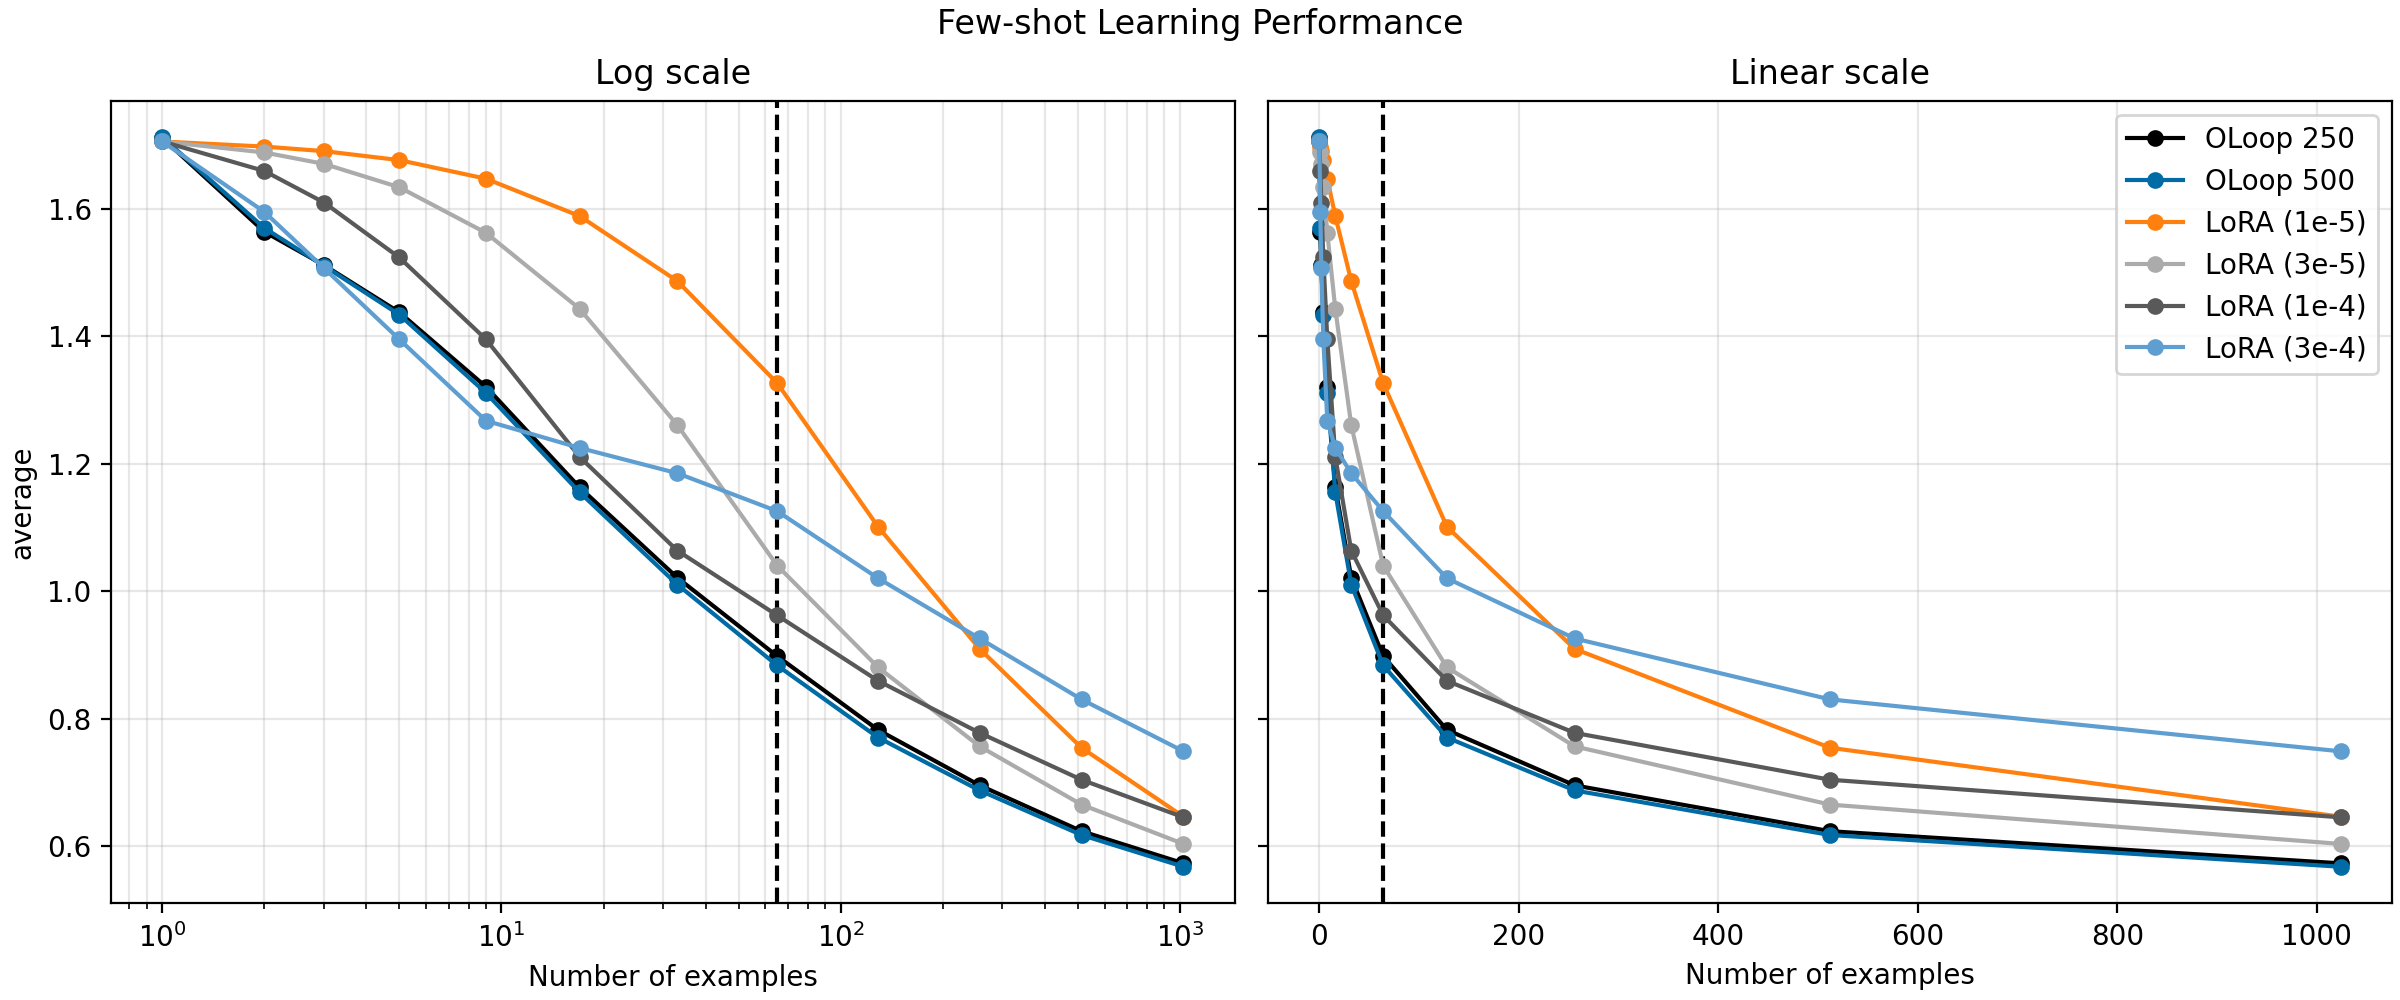
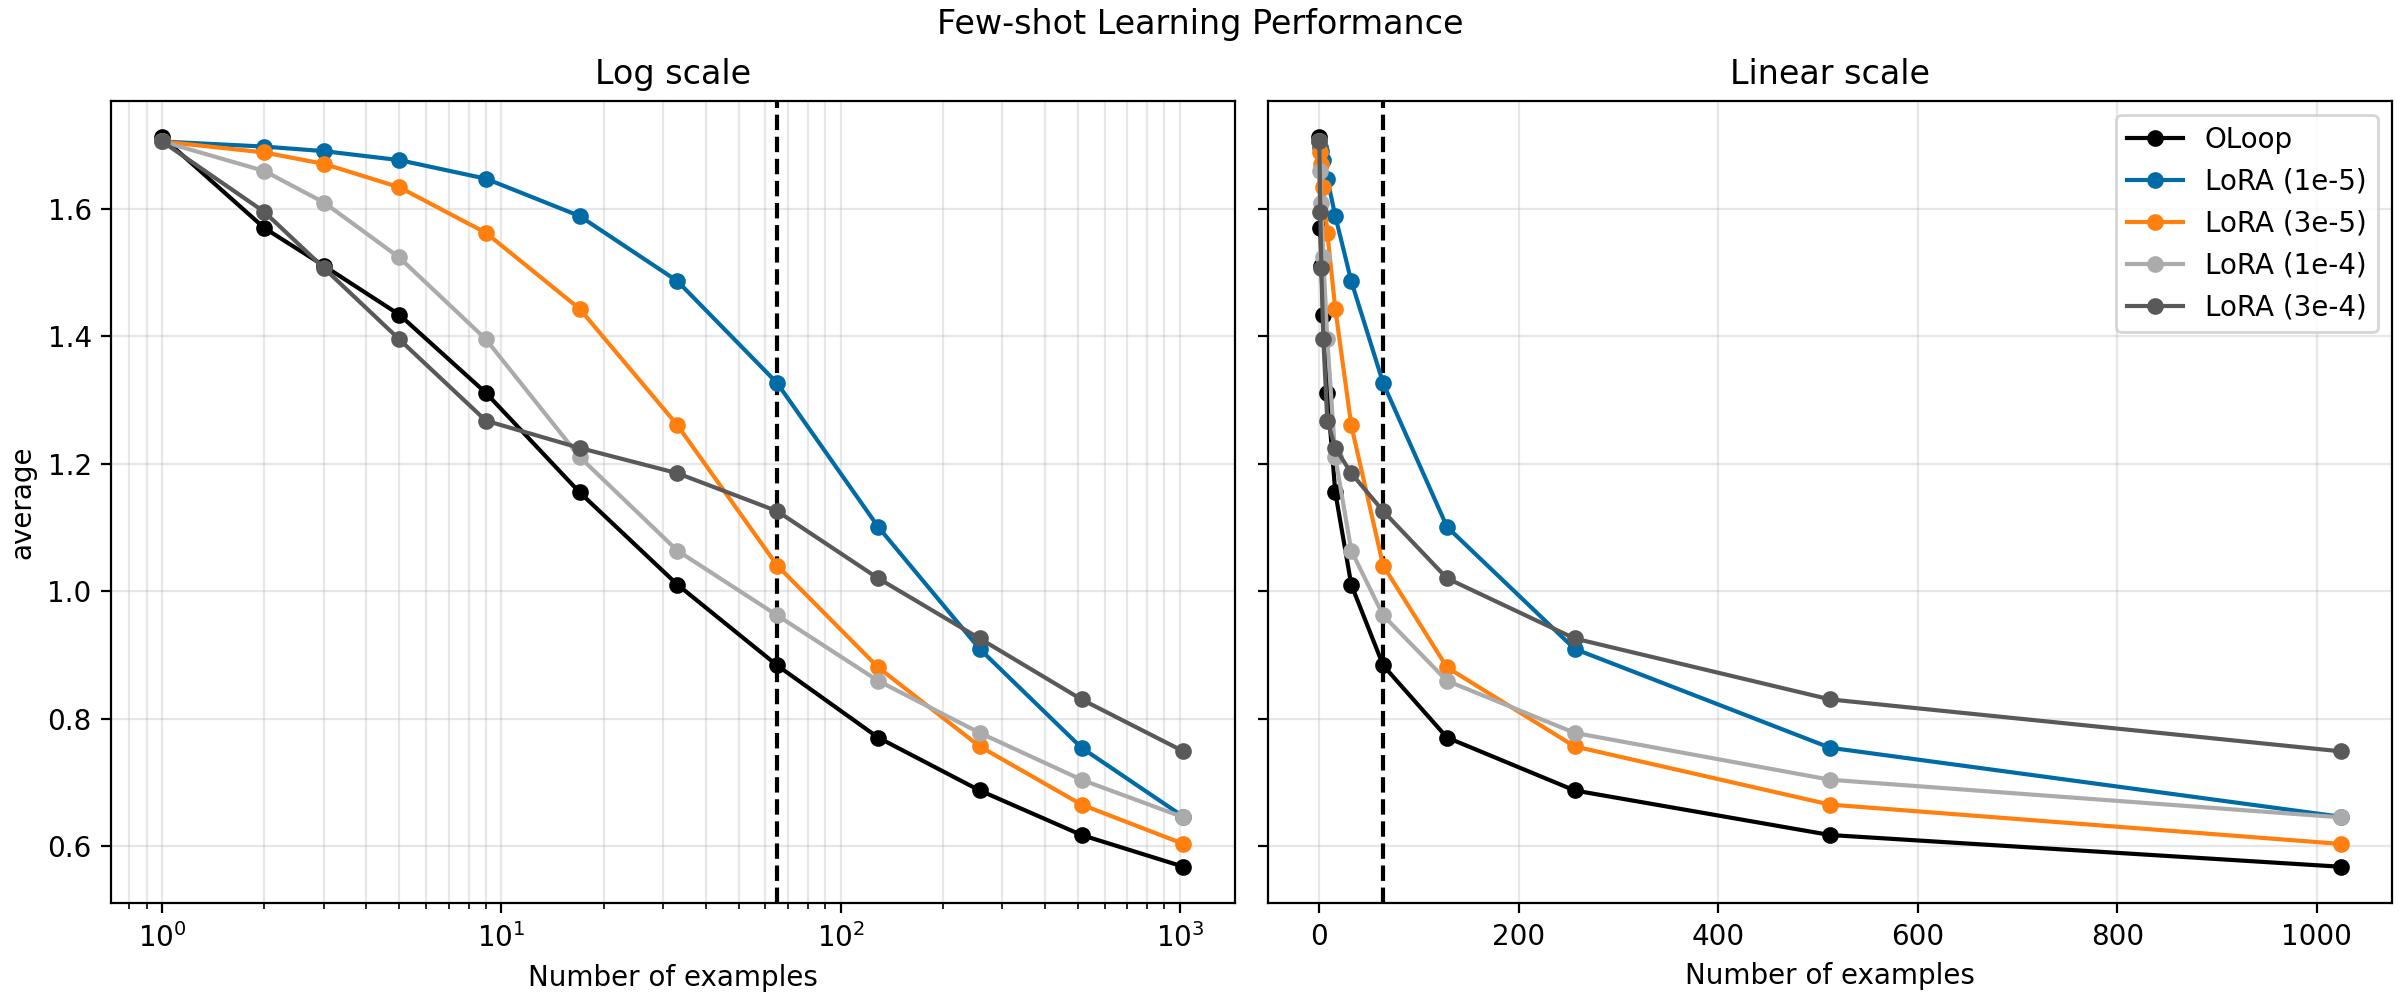
initialization and synchronization

diff --git a/src/scripts/initialize_oloop.py b/src/scripts/initialize_oloop.py
@@ -1,0 +1,90 @@
+"""Activation-initialize an OLoop model and upload it as a checkpoint."""
+
+import argparse
+import json
+import sys
+import tempfile
+from pathlib import Path
+
+import datasets
+import huggingface_hub as hf
+import torch
+from hydra import compose, initialize_config_dir
+from omegaconf import OmegaConf
+
+
+SRC = Path(__file__).resolve().parents[1]
+sys.path.insert(0, str(SRC))
+
+from collators.horizon import HorizonCollator
+from models import load_checkpoint_state
+from utils.import_utils import import_model
+
+
+DEVICE = torch.device("cuda" if torch.cuda.is_available() else "cpu")
+
+
+def main():
+
+    parser = argparse.ArgumentParser()
+    parser.add_argument("--episodes", type=int, required=True)
+    parser.add_argument("--repo", default="aklein4/oloop-init")
+    parser.add_argument("--step", type=int, default=0)
+    args, overrides = parser.parse_known_args()
+
+    with initialize_config_dir(version_base=None, config_dir=str(SRC / "configs")):
+        config = compose(config_name="default", overrides=overrides)
+
+    torch.manual_seed(config.seed)
+    torch.cuda.manual_seed_all(config.seed)
+
+    attention_kernel = config.model.attention_kernel
+    config.model.attention_kernel = None
+    model = import_model(config.model.type)(
+        config.model
+    )
+    if config.model.pretrained_url is not None:
+        load_checkpoint_state(
+            model,
+            config.model.pretrained_url,
+            config.model.pretrained_step,
+            strict=config.model.pretrained_strict,
+        )
+    model = model.float().to(DEVICE).eval()
+
+    config.data.collator.kwargs["cluster_length"] = 1
+    collator = HorizonCollator(**config.data.collator.kwargs)
+
+    data = datasets.load_dataset(config.data.dataset.url, **config.data.dataset.kwargs)
+    rows = list(data.take(args.episodes))
+    batch = collator(rows)
+
+    input_ids = batch["input_ids"][:, 0].to(DEVICE)
+    init_mask = batch["attention_mask"][:, 0].to(DEVICE)
+
+    model.enable_init(init_mask)
+    with torch.no_grad():
+        model(input_ids)
+    model.disable_init()
+    config.model.attention_kernel = attention_kernel
+
+    hf.create_repo(args.repo, repo_type="model", exist_ok=True)
+    with tempfile.TemporaryDirectory() as save_dir:
+        with open(Path(save_dir) / "config.json", "w") as f:
+            json.dump(OmegaConf.to_container(config.model, resolve=True), f, indent=4)
+        torch.save(
+            {name: value.detach().cpu() for name, value in model.state_dict().items()},
+            Path(save_dir) / "model.pt",
+        )
+        hf.HfApi().upload_folder(
+            repo_id=args.repo,
+            repo_type="model",
+            folder_path=save_dir,
+            path_in_repo=f"{args.step:012d}",
+        )
+
+    print(f"Uploaded {args.episodes} episode initialization to {args.repo} step {args.step}")
+
+
+if __name__ == "__main__":
+    main()

diff --git a/src/models/oloop.py b/src/models/oloop.py
@@ -315,9 +315,12 @@ class FastWeight(nn.Module):
 
 
 class UnitGLU(nn.Module):
-
     def forward(self, x, gate):
         return x * F.silu(gate) / 0.6
+
+class StandardGLU(nn.Module):
+    def forward(self, x, gate):
+        return x * F.silu(gate)
 
 
 class FastWeightMLP(nn.Module):
@@ -361,24 +364,14 @@ class FastWeightMLP(nn.Module):
             self.fast_weight_size, self.hidden_size, bias=False
         )
 
-        self.register_buffer(
-            "in_scale", torch.ones(self.hidden_size), persistent=True
-        )
-        self.register_buffer(
-            "out_scale", torch.ones(self.hidden_size), persistent=True
-        )
-
         self.do_init = False
         self.init_mask = None
 
 
     @torch.no_grad()
     def init_input(self, x):
-        _, std, _ = _masked_statistics(x, self.init_mask)
-
-        self.in_scale.copy_(1 / (std + self.eps))
-        x = x.float() * self.in_scale[None]
-
+        x = x.float()
+        
         scaled_mean, _, covariance = _masked_statistics(x, self.init_mask)
         whitening = cut_inv_sqrt(covariance, self.inv_quantile)
 
@@ -410,10 +403,7 @@ class FastWeightMLP(nn.Module):
 
     @torch.no_grad()
     def init_output(self, y):
-        _, std, _ = _masked_statistics(y, self.init_mask)
-
-        self.out_scale.copy_(std)
-        y = y.float() / (self.out_scale[None] + self.eps)
+        y = y.float()
 
         _, _, covariance = _masked_statistics(y, self.init_mask)
 
@@ -443,13 +433,11 @@ class FastWeightMLP(nn.Module):
             self.init_output(y_base)
             return y_base
 
-        x_fast = x * self.in_scale[None]
         h_fast = self.fast_act_fn(
-            self.up_fast(x_fast), self.gate_fast(x_fast)
+            self.up_fast(x), self.gate_fast(x)
         )
         h_fast = self.fast(h_fast)
         y_fast = self.down_fast(h_fast)
-        y_fast = y_fast * self.out_scale[None]
 
         return y_base + y_fast
 

diff --git a/src/models/recurrent.py b/src/models/recurrent.py
@@ -152,6 +152,10 @@ class RecurrentFastWeightFunction(torch.autograd.Function):
         )
 
 
+def unit_glu(x: torch.FloatTensor, gate: torch.FloatTensor) -> torch.FloatTensor:
+    return x * F.silu(gate) / 0.6
+
+
 class RecurrentFastWeightMLP(nn.Module):
 
     def __init__(self, config: DictConfig):
@@ -188,12 +192,12 @@ class RecurrentFastWeightMLP(nn.Module):
         self.up_fast = nn.Linear(
             config.hidden_size,
             self.fast_weight_size,
-            bias=False,
+            bias=True,
         )
         self.gate_fast = nn.Linear(
             config.hidden_size,
             self.fast_weight_size,
-            bias=False,
+            bias=True,
         )
         self.down_fast = nn.Linear(
             self.fast_weight_size,
@@ -266,7 +270,10 @@ class RecurrentFastWeightMLP(nn.Module):
         y_base = self.down_proj(h_base)
 
         # fast mlp
-        h_fast = self.act_fn(self.gate_fast(x)) * self.up_fast(x)
+        h_fast = unit_glu(
+            self.up_fast(x),
+            self.gate_fast(x),
+        )
         value = torch.einsum("boi,bli->blo", self.state, h_fast)
         output = self.down_fast(value)
 
@@ -275,7 +282,10 @@ class RecurrentFastWeightMLP(nn.Module):
         if self.mode == RecurrentMode.TRAIN_SECOND:
 
             x_d = x.detach()
-            activations = self.act_fn(self.gate_fast(x_d)) * self.up_fast(x_d)
+            activations = unit_glu(
+                self.up_fast(x_d),
+                self.gate_fast(x_d),
+            )
 
             lr = self.get_lr(lr_embeddings, lr_embedding_mask)
 
@@ -442,7 +452,7 @@ class RecurrentModel(LlamaForCausalLM):
         self.apply(gaussian_init)
 
 
-    def load_state_dict(
+    def _old_load_state_dict(
         self,
         state_dict: dict[str, torch.Tensor],
         strict: bool = True,

diff --git a/src/trainers/recurrent_trainer.py b/src/trainers/recurrent_trainer.py
@@ -245,12 +245,15 @@ class RecurrentTrainer(BaseTrainer):
     @torch_xla.compile(full_graph=True)
     def post_forward(self):
 
+        err = self.model.relative_grad_error()
         self.model.empty_state()
 
         grad_norm = self.clip_gradients()
         aux = self.optimization_step()
 
         self.model.zero_grad(set_to_none=False)
+
+        aux["relative_grad_error"] = err
 
         return aux, grad_norm
 
@@ -273,6 +276,7 @@ class RecurrentTrainer(BaseTrainer):
         for index, episode in enumerate(episodes):
 
             loss = self.first_pass(*episode)
+            torch_xla.sync(wait=True)
 
             aux[f"lm_loss/episode_{index:02d}"] = loss
             losses.append(loss)
@@ -283,11 +287,13 @@ class RecurrentTrainer(BaseTrainer):
 
         self.model.finalize_state()
         self.model.zero_grad(set_to_none=False)
+        torch_xla.sync(wait=True)
 
         # second loop
         for index, episode in enumerate(episodes[:-1]):
 
             self.second_pass(*episode)
+            torch_xla.sync(wait=True)
         
             master_print(
                 f"Second pass {index:02d} completed."
@@ -299,13 +305,16 @@ class RecurrentTrainer(BaseTrainer):
             no_slow_grads=False,
             second_state_update=True
         )
-        aux["relative_grad_error"] = self.model.relative_grad_error()
+        torch_xla.sync(wait=True)
+
         master_print(
             f"Second pass {terminal_index:02d} completed."
         )
 
         # optimizer step
         post_aux, grad_norm = self.post_forward()
+        torch_xla.sync(wait=True)
+
         aux.update(post_aux)
         master_print("Optimization step completed.")
 

diff --git a/src/models/__init__.py b/src/models/__init__.py
@@ -8,6 +8,7 @@ import huggingface_hub as hf
 import shutil
 
 from utils.import_utils import import_model
+from utils.logging_utils import master_print
 from utils import constants
 
 
@@ -91,6 +92,7 @@ def load_checkpoint_state(
     strict: bool = True,
     ignore_cache: bool = False,
     remove_folder: bool = False,
+    verbose: bool = False,
 ):
     """
     Loads a checkpoint state dict from Hugging Face Hub or local folder into a given model.
@@ -130,7 +132,13 @@ def load_checkpoint_state(
         for k, v in state_dict.items()
     }
 
-    model.load_state_dict(cleaned_state_dict, strict=strict)
+    keys = model.load_state_dict(cleaned_state_dict, strict=strict)
+
+    if verbose:
+        if keys.missing_keys:
+            master_print(f"Missing keys when loading state dict: {keys.missing_keys}")
+        if keys.unexpected_keys:
+            master_print(f"Unexpected keys when loading state dict: {keys.unexpected_keys}")
 
     if remove_folder:
         shutil.rmtree(subfolder_path, ignore_errors=True)

diff --git a/src/plot_icl.py b/src/plot_icl.py
@@ -11,8 +11,8 @@ from utils import constants
 BASE_PATH = os.path.join(constants.LOCAL_DATA_PATH, "icl_results")
 
 RUNS = {
-    "OLoop 250": "aklein4--Horizon-TPU_alpha/000000000250.json",
-    "OLoop 500": "aklein4--Horizon-TPU_alpha/000000000500.json",
+    # "OLoop 250": "aklein4--Horizon-TPU_alpha/000000000250.json",
+    "OLoop": "aklein4--Horizon-TPU_alpha/000000000500.json",
     "LoRA (1e-5)": "fresh/oloop-lora-llama3p2-1b-pre/base_lr_1e-05.json",
     "LoRA (3e-5)": "fresh/oloop-lora-llama3p2-1b-pre/base_lr_3e-05.json",
     "LoRA (1e-4)": "fresh/oloop-lora-llama3p2-1b-pre/base_lr_1e-04.json",

diff --git a/src/train.py b/src/train.py
@@ -90,6 +90,7 @@ def main(config: omegaconf.DictConfig):
             config.model.pretrained_url,
             config.model.pretrained_step,
             strict=config.model.pretrained_strict,
+            verbose=True
         )
 
     # TODO: initialize the model weights directly on the XLA device
